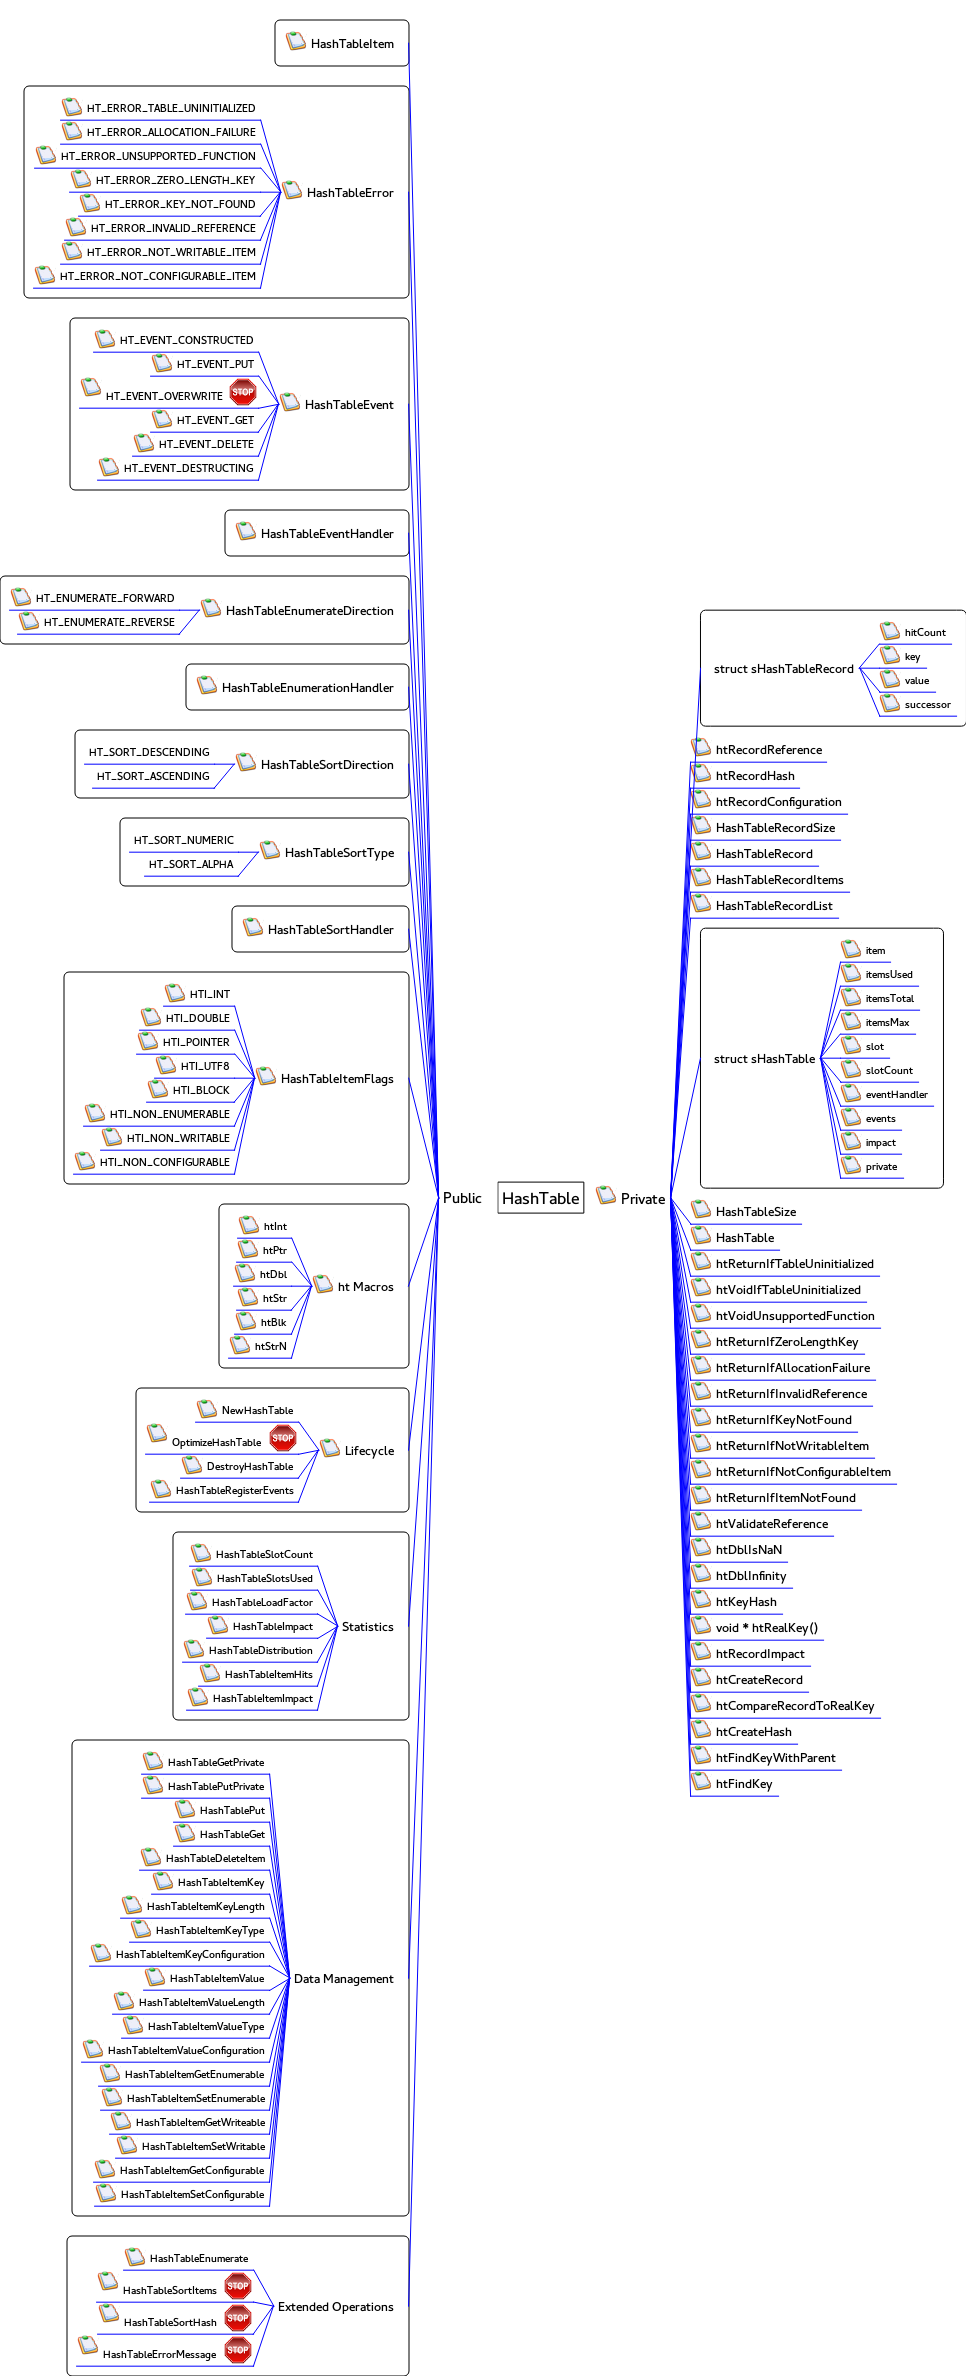
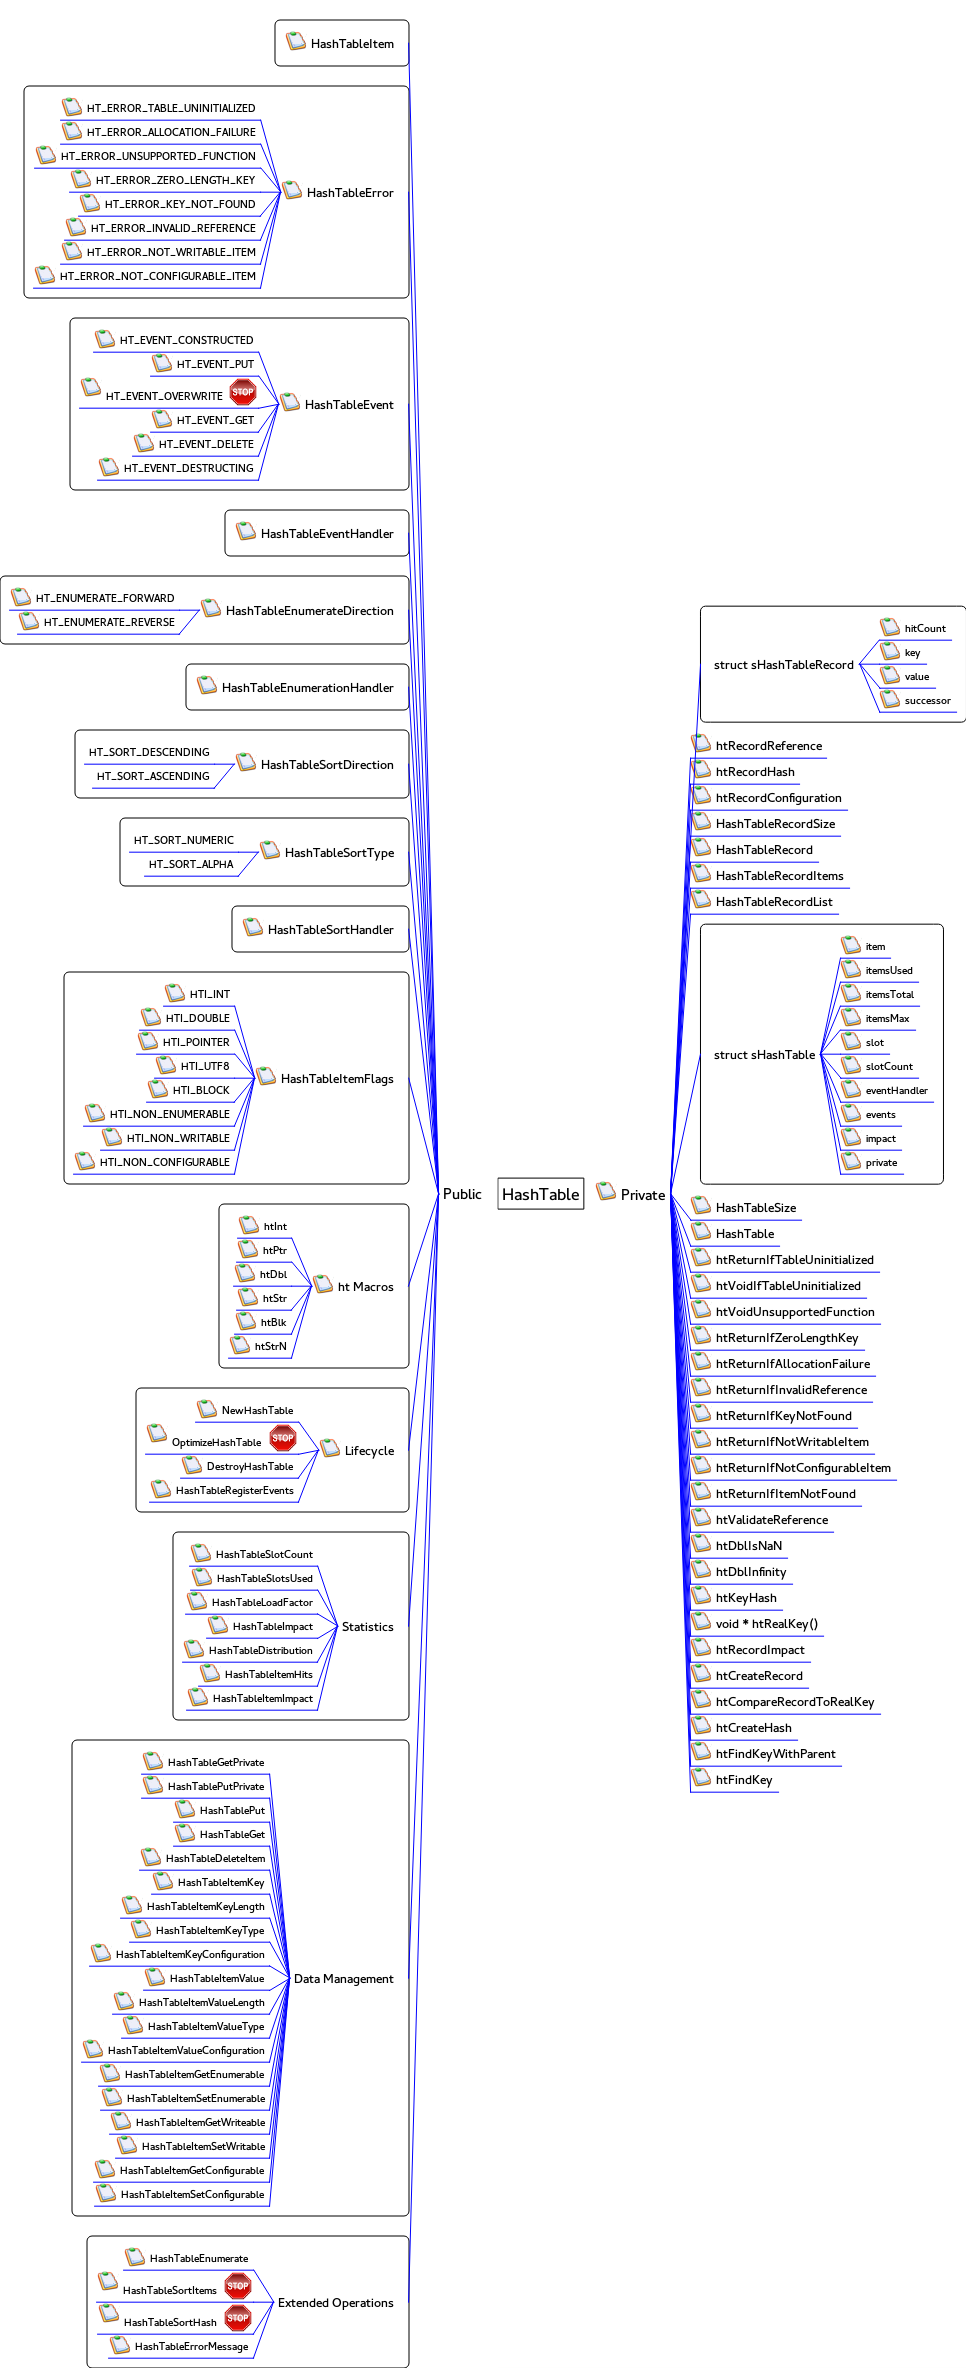
Documentation sync

diff --git a/HashTable.html b/HashTable.html
@@ -39,7 +39,7 @@ size_t HT_ERROR_KEY_NOT_FOUND<br/><br/>The specified key could not be located wi
 </li>
 <li><span class='vym-branch3'  id='mc:0,bo:0,bo:1,bo:5'>HT_ERROR_INVALID_REFERENCE</span>
 <table class="vym-note"><tr><td>
-size_t HT_ERROR_INVALID_REFERENCE<br/><br/>The specified HashTableItem was invalid.<br/>
+size_t HT_ERROR_INVALID_REFERENCE<br/><br/>The specified item reference was invalid.<br/>
 </td></tr></table>
 </li>
 <li><span class='vym-branch3'  id='mc:0,bo:0,bo:1,bo:6'>HT_ERROR_NOT_WRITABLE_ITEM</span>
@@ -406,7 +406,7 @@ void HashTableSortHash<br/>(<br/>	HashTable hashTable,<br/>	size_t keyLength,<br
 </li>
 <li><span class='vym-branch3'  id='mc:0,bo:0,bo:14,bo:3'>HashTableErrorMessage</span>
 <table class="vym-note"><tr><td>
-const char * HashTableErrorMessage(void)<br/><br/>Returns a string representing the contents of errno, if errno equates to a HashTableError.<br/><br/>This procedure is not yet implemented.<br/>
+const char * HashTableErrorMessage(void)<br/><br/>Returns a string representing the contents of errno, if errno equates to a HashTableError.<br/><br/>
 </td></tr></table>
 </li>
 </ul>
@@ -586,17 +586,17 @@ void htReturnIfNotConfigurableItem(HashTableItem reference)<br/><br/>If the item
 </li>
 <li><span class='vym-branch2'  id='mc:0,bo:1,bo:20'>htReturnIfItemNotFound</span>
 <table class="vym-note"><tr><td>
-void htReturnIfItemNotFound(HashTableRecord item)<br/><br/>If item is null, set errno to HT_ERROR_INVALID_REFERENCE and return 0.<br/><br/>The naming of this error breaks the uniformity of the API, however intrinsicly, this is in effect the same error that would be returned. If any changes are made, the new error identifier will only be an alias of the above error, thusly guranteeing backwards compatibility for this feature.<br/>
+void htReturnIfItemNotFound(HashTableRecord item)<br/><br/>If item is null, set errno to HT_ERROR_INVALID_REFERENCE and return 0.<br/><br/>The naming of this error breaks the uniformity of the API, however intrinsicly, this is in effect the same error that would be returned by dereferencing an invalid reference.<br/>
 </td></tr></table>
 </li>
 <li><span class='vym-branch2'  id='mc:0,bo:1,bo:21'>htValidateReference</span>
 <table class="vym-note"><tr><td>
-void htValidateReference(HashTable ht, HashTableItem reference)<br/><br/>Return error if table uninitialized, return error if invalid reference.<br/>
+void htValidateReference(HashTable ht, HashTableItem reference)<br/><br/>Return error if table uninitialized, return error if invalid reference, decrement reference (must be an lvalue!), return error if hash table item reference is invalid.<br/>
 </td></tr></table>
 </li>
 <li><span class='vym-branch2'  id='mc:0,bo:1,bo:22'>htDblIsNaN</span>
 <table class="vym-note"><tr><td>
-boolean htDblIsNaN(double value)<br/><br/>Returns true or false if the value specified is representative of the IEEE 754 floating point value NaN.<br/>
+boolean htDblIsNaN(volatile double value)<br/><br/>Returns true or false if the value specified is representative of the IEEE 754 floating point value NaN.<br/>
 </td></tr></table>
 </li>
 <li><span class='vym-branch2'  id='mc:0,bo:1,bo:23'>htDblInfinity</span>
@@ -648,8 +648,8 @@ HashTableRecord htFindKey(HashTable table, size_t keyLength, void * realKey)<br/
 </li>
 </ul>
 <map name='imagemap'>
-  <area shape='rect' coords='497.851,1182.11,583.851,1213.11' href='#mc:0'>
-  <area shape='rect' coords='439,1183.5,487,1212.5' href='#mc:0,bo:0'>
+  <area shape='rect' coords='497.851,1178.11,583.851,1209.11' href='#mc:0'>
+  <area shape='rect' coords='439,1179.5,487,1208.5' href='#mc:0,bo:0'>
   <area shape='rect' coords='307,30,399,56' href='#mc:0,bo:0,bo:0'>
   <area shape='rect' coords='303,179,399,205' href='#mc:0,bo:0,bo:1'>
   <area shape='rect' coords='83,96,261,120' href='#mc:0,bo:0,bo:1,bo:0'>
@@ -728,58 +728,58 @@ HashTableRecord htFindKey(HashTable table, size_t keyLength, void * realKey)<br/
   <area shape='rect' coords='138,2134,270,2158' href='#mc:0,bo:0,bo:13,bo:16'>
   <area shape='rect' coords='116,2158,270,2182' href='#mc:0,bo:0,bo:13,bo:17'>
   <area shape='rect' coords='117,2182,270,2206' href='#mc:0,bo:0,bo:13,bo:18'>
-  <area shape='rect' coords='274,2293,399,2319' href='#mc:0,bo:0,bo:14'>
+  <area shape='rect' coords='274,2289,399,2315' href='#mc:0,bo:0,bo:14'>
   <area shape='rect' coords='146,2246,254,2270' href='#mc:0,bo:0,bo:14,bo:0'>
   <area shape='rect' coords='119,2278,222,2302' href='#mc:0,bo:0,bo:14,bo:1'>
   <area shape='rect' coords='120,2310,222,2334' href='#mc:0,bo:0,bo:14,bo:2'>
-  <area shape='rect' coords='99,2342,222,2366' href='#mc:0,bo:0,bo:14,bo:3'>
-  <area shape='rect' coords='617.471,1183.66,670.471,1212.66' href='#mc:0,bo:1'>
-  <area shape='rect' coords='710.471,655.164,859.471,681.164' href='#mc:0,bo:1,bo:0'>
-  <area shape='rect' coords='901.471,620.164,951.471,644.164' href='#mc:0,bo:1,bo:0,bo:0'>
-  <area shape='rect' coords='901.471,644.164,926.471,668.164' href='#mc:0,bo:1,bo:0,bo:1'>
-  <area shape='rect' coords='901.471,668.164,935.471,692.164' href='#mc:0,bo:1,bo:0,bo:2'>
-  <area shape='rect' coords='901.471,692.164,956.471,716.164' href='#mc:0,bo:1,bo:0,bo:3'>
-  <area shape='rect' coords='712.471,736.164,826.471,762.164' href='#mc:0,bo:1,bo:1'>
-  <area shape='rect' coords='712.471,762.164,799.471,788.164' href='#mc:0,bo:1,bo:2'>
-  <area shape='rect' coords='712.471,788.164,847.471,814.164' href='#mc:0,bo:1,bo:3'>
-  <area shape='rect' coords='712.471,814.164,840.471,840.164' href='#mc:0,bo:1,bo:4'>
-  <area shape='rect' coords='712.471,840.164,818.471,866.164' href='#mc:0,bo:1,bo:5'>
-  <area shape='rect' coords='712.471,866.164,849.471,892.164' href='#mc:0,bo:1,bo:6'>
-  <area shape='rect' coords='712.471,892.164,838.471,918.164' href='#mc:0,bo:1,bo:7'>
-  <area shape='rect' coords='710.471,1045.16,820.471,1071.16' href='#mc:0,bo:1,bo:8'>
-  <area shape='rect' coords='862.471,938.164,890.471,962.164' href='#mc:0,bo:1,bo:8,bo:0'>
-  <area shape='rect' coords='862.471,962.164,918.471,986.164' href='#mc:0,bo:1,bo:8,bo:1'>
-  <area shape='rect' coords='862.471,986.164,919.471,1010.16' href='#mc:0,bo:1,bo:8,bo:2'>
-  <area shape='rect' coords='862.471,1010.16,915.471,1034.16' href='#mc:0,bo:1,bo:8,bo:3'>
-  <area shape='rect' coords='862.471,1034.16,889.471,1058.16' href='#mc:0,bo:1,bo:8,bo:4'>
-  <area shape='rect' coords='862.471,1058.16,918.471,1082.16' href='#mc:0,bo:1,bo:8,bo:5'>
-  <area shape='rect' coords='862.471,1082.16,933.471,1106.16' href='#mc:0,bo:1,bo:8,bo:6'>
-  <area shape='rect' coords='862.471,1106.16,901.471,1130.16' href='#mc:0,bo:1,bo:8,bo:7'>
-  <area shape='rect' coords='862.471,1130.16,901.471,1154.16' href='#mc:0,bo:1,bo:8,bo:8'>
-  <area shape='rect' coords='862.471,1154.16,903.471,1178.16' href='#mc:0,bo:1,bo:8,bo:9'>
-  <area shape='rect' coords='712.471,1198.16,801.471,1224.16' href='#mc:0,bo:1,bo:9'>
-  <area shape='rect' coords='712.471,1224.16,779.471,1250.16' href='#mc:0,bo:1,bo:10'>
-  <area shape='rect' coords='712.471,1250.16,879.471,1276.16' href='#mc:0,bo:1,bo:11'>
-  <area shape='rect' coords='712.471,1276.16,866.471,1302.16' href='#mc:0,bo:1,bo:12'>
-  <area shape='rect' coords='712.471,1302.16,880.471,1328.16' href='#mc:0,bo:1,bo:13'>
-  <area shape='rect' coords='712.471,1328.16,864.471,1354.16' href='#mc:0,bo:1,bo:14'>
-  <area shape='rect' coords='712.471,1354.16,875.471,1380.16' href='#mc:0,bo:1,bo:15'>
-  <area shape='rect' coords='712.471,1380.16,872.471,1406.16' href='#mc:0,bo:1,bo:16'>
-  <area shape='rect' coords='712.471,1406.16,857.471,1432.16' href='#mc:0,bo:1,bo:17'>
-  <area shape='rect' coords='712.471,1432.16,874.471,1458.16' href='#mc:0,bo:1,bo:18'>
-  <area shape='rect' coords='712.471,1458.16,896.471,1484.16' href='#mc:0,bo:1,bo:19'>
-  <area shape='rect' coords='712.471,1484.16,861.471,1510.16' href='#mc:0,bo:1,bo:20'>
-  <area shape='rect' coords='712.471,1510.16,833.471,1536.16' href='#mc:0,bo:1,bo:21'>
-  <area shape='rect' coords='712.471,1536.16,787.471,1562.16' href='#mc:0,bo:1,bo:22'>
-  <area shape='rect' coords='712.471,1562.16,792.471,1588.16' href='#mc:0,bo:1,bo:23'>
-  <area shape='rect' coords='712.471,1588.16,782.471,1614.16' href='#mc:0,bo:1,bo:24'>
-  <area shape='rect' coords='712.471,1614.16,823.471,1640.16' href='#mc:0,bo:1,bo:25'>
-  <area shape='rect' coords='712.471,1640.16,810.471,1666.16' href='#mc:0,bo:1,bo:26'>
-  <area shape='rect' coords='712.471,1666.16,808.471,1692.16' href='#mc:0,bo:1,bo:27'>
-  <area shape='rect' coords='712.471,1692.16,880.471,1718.16' href='#mc:0,bo:1,bo:28'>
-  <area shape='rect' coords='712.471,1718.16,797.471,1744.16' href='#mc:0,bo:1,bo:29'>
-  <area shape='rect' coords='712.471,1744.16,841.471,1770.16' href='#mc:0,bo:1,bo:30'>
-  <area shape='rect' coords='712.471,1770.16,778.471,1796.16' href='#mc:0,bo:1,bo:31'>
+  <area shape='rect' coords='131,2334,254,2358' href='#mc:0,bo:0,bo:14,bo:3'>
+  <area shape='rect' coords='617.471,1179.66,670.471,1208.66' href='#mc:0,bo:1'>
+  <area shape='rect' coords='710.471,651.164,859.471,677.164' href='#mc:0,bo:1,bo:0'>
+  <area shape='rect' coords='901.471,616.164,951.471,640.164' href='#mc:0,bo:1,bo:0,bo:0'>
+  <area shape='rect' coords='901.471,640.164,926.471,664.164' href='#mc:0,bo:1,bo:0,bo:1'>
+  <area shape='rect' coords='901.471,664.164,935.471,688.164' href='#mc:0,bo:1,bo:0,bo:2'>
+  <area shape='rect' coords='901.471,688.164,956.471,712.164' href='#mc:0,bo:1,bo:0,bo:3'>
+  <area shape='rect' coords='712.471,732.164,826.471,758.164' href='#mc:0,bo:1,bo:1'>
+  <area shape='rect' coords='712.471,758.164,799.471,784.164' href='#mc:0,bo:1,bo:2'>
+  <area shape='rect' coords='712.471,784.164,847.471,810.164' href='#mc:0,bo:1,bo:3'>
+  <area shape='rect' coords='712.471,810.164,840.471,836.164' href='#mc:0,bo:1,bo:4'>
+  <area shape='rect' coords='712.471,836.164,818.471,862.164' href='#mc:0,bo:1,bo:5'>
+  <area shape='rect' coords='712.471,862.164,849.471,888.164' href='#mc:0,bo:1,bo:6'>
+  <area shape='rect' coords='712.471,888.164,838.471,914.164' href='#mc:0,bo:1,bo:7'>
+  <area shape='rect' coords='710.471,1041.16,820.471,1067.16' href='#mc:0,bo:1,bo:8'>
+  <area shape='rect' coords='862.471,934.164,890.471,958.164' href='#mc:0,bo:1,bo:8,bo:0'>
+  <area shape='rect' coords='862.471,958.164,918.471,982.164' href='#mc:0,bo:1,bo:8,bo:1'>
+  <area shape='rect' coords='862.471,982.164,919.471,1006.16' href='#mc:0,bo:1,bo:8,bo:2'>
+  <area shape='rect' coords='862.471,1006.16,915.471,1030.16' href='#mc:0,bo:1,bo:8,bo:3'>
+  <area shape='rect' coords='862.471,1030.16,889.471,1054.16' href='#mc:0,bo:1,bo:8,bo:4'>
+  <area shape='rect' coords='862.471,1054.16,918.471,1078.16' href='#mc:0,bo:1,bo:8,bo:5'>
+  <area shape='rect' coords='862.471,1078.16,933.471,1102.16' href='#mc:0,bo:1,bo:8,bo:6'>
+  <area shape='rect' coords='862.471,1102.16,901.471,1126.16' href='#mc:0,bo:1,bo:8,bo:7'>
+  <area shape='rect' coords='862.471,1126.16,901.471,1150.16' href='#mc:0,bo:1,bo:8,bo:8'>
+  <area shape='rect' coords='862.471,1150.16,903.471,1174.16' href='#mc:0,bo:1,bo:8,bo:9'>
+  <area shape='rect' coords='712.471,1194.16,801.471,1220.16' href='#mc:0,bo:1,bo:9'>
+  <area shape='rect' coords='712.471,1220.16,779.471,1246.16' href='#mc:0,bo:1,bo:10'>
+  <area shape='rect' coords='712.471,1246.16,879.471,1272.16' href='#mc:0,bo:1,bo:11'>
+  <area shape='rect' coords='712.471,1272.16,866.471,1298.16' href='#mc:0,bo:1,bo:12'>
+  <area shape='rect' coords='712.471,1298.16,880.471,1324.16' href='#mc:0,bo:1,bo:13'>
+  <area shape='rect' coords='712.471,1324.16,864.471,1350.16' href='#mc:0,bo:1,bo:14'>
+  <area shape='rect' coords='712.471,1350.16,875.471,1376.16' href='#mc:0,bo:1,bo:15'>
+  <area shape='rect' coords='712.471,1376.16,872.471,1402.16' href='#mc:0,bo:1,bo:16'>
+  <area shape='rect' coords='712.471,1402.16,857.471,1428.16' href='#mc:0,bo:1,bo:17'>
+  <area shape='rect' coords='712.471,1428.16,874.471,1454.16' href='#mc:0,bo:1,bo:18'>
+  <area shape='rect' coords='712.471,1454.16,896.471,1480.16' href='#mc:0,bo:1,bo:19'>
+  <area shape='rect' coords='712.471,1480.16,861.471,1506.16' href='#mc:0,bo:1,bo:20'>
+  <area shape='rect' coords='712.471,1506.16,833.471,1532.16' href='#mc:0,bo:1,bo:21'>
+  <area shape='rect' coords='712.471,1532.16,787.471,1558.16' href='#mc:0,bo:1,bo:22'>
+  <area shape='rect' coords='712.471,1558.16,792.471,1584.16' href='#mc:0,bo:1,bo:23'>
+  <area shape='rect' coords='712.471,1584.16,782.471,1610.16' href='#mc:0,bo:1,bo:24'>
+  <area shape='rect' coords='712.471,1610.16,823.471,1636.16' href='#mc:0,bo:1,bo:25'>
+  <area shape='rect' coords='712.471,1636.16,810.471,1662.16' href='#mc:0,bo:1,bo:26'>
+  <area shape='rect' coords='712.471,1662.16,808.471,1688.16' href='#mc:0,bo:1,bo:27'>
+  <area shape='rect' coords='712.471,1688.16,880.471,1714.16' href='#mc:0,bo:1,bo:28'>
+  <area shape='rect' coords='712.471,1714.16,797.471,1740.16' href='#mc:0,bo:1,bo:29'>
+  <area shape='rect' coords='712.471,1740.16,841.471,1766.16' href='#mc:0,bo:1,bo:30'>
+  <area shape='rect' coords='712.471,1766.16,778.471,1792.16' href='#mc:0,bo:1,bo:31'>
 </map>
 <hr/>
 <table class="vym-footer">   
